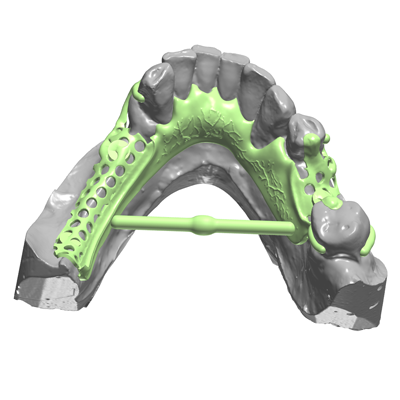
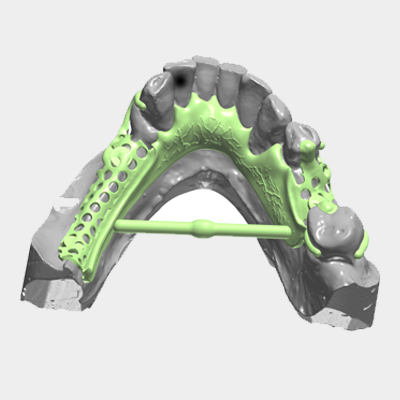
Service Images repalce

Changed region(s): [[0.03, 0.09, 0.99, 0.84]]

diff --git a/index.html b/index.html
@@ -78,7 +78,7 @@
                         SPECIALISATION  </a></li>
                                 </ul>
                             </li>
-                            <!-- <li><a href="#socialmedia">SOCIAL MEDIA</a></li> -->
+                            <li><a href="#portfolio">PORTFOLIO</a></li>
                             <li><a href="#visionmission">VISION </a></li>
 
                             <li class="drop-down">CONTACT
@@ -229,7 +229,7 @@
                                     <div class="col-lg-3 col-md-6">
                                         <div class="member text-center" data-aos="fade-up" data-aos-delay="400">
                                             <a href="#">
-                                                <img src="assets/img/8.Flexible Denture.png" class="img-fluid" alt="">
+                                                <img src="assets/img/flexibledenture.png" class="img-fluid" alt="">
                                             </a>
                                             <h6>Flexible Denture</h6>
 
@@ -238,7 +238,7 @@
                                     <div class="col-lg-3 col-md-6">
                                         <div class="member text-center" data-aos="fade-up" data-aos-delay="100">
                                             <a href="#">
-                                                <img src="assets/img/9.Digital denture.png" class="img-fluid" alt="">
+                                                <img src="assets/img/digitaldentureservice.png" class="img-fluid" alt="">
                                             </a>
                                             <h6>Digital Denture</h6>
                                         </div>
@@ -343,17 +343,17 @@
                 </header>
 
 
-                <h5>SPECIALISATION</h5>
+                <h5><strong>SPECIALISATION</strong></h5>
                 <p>One of the most important part that must be considered before any treatment begin is the clinician must take the time to discuss and discover the patient’s chief complaint and concerns and whether he or she can achieve or succeed the patient’s
                     desired final result.</p>
                 <p>Cherishing this, we have some of our strong point.</p>
-                <h5>SMILE DESIGNING</h5>
+                <h5><strong>SMILE DESIGNING</strong></h5>
                 <p>A smile expresses pleasure, sociability, happiness, joy, amusement, in a nutshell all the expressions which makes us alive. This concludes that it is a important attribute to any individual. Keeping this in mind, we consider and evaluate
                     in creating a smile that is esthetically pleasing to the doctor and the patient.</p>
-                <h5>BIO HPP WITH COMPOSITE</h5>
+                <h5><strong>BIO HPP WITH COMPOSITE</strong></h5>
                 <p>A new high performance polymer, BioHPP, based on polyether-ether-ketone (PEEK) polymer was introduced as dental material for manufacturing the superstructure dentures on dental implants. It is the brand new material in the implantology
                     sector. A division of our designers in VR2020 is dedicated to this segment as this is a potential future of digital dentistry.</p>
-                <h5>COSMETIC DENTISTRY</h5>
+                <h5><strong>COSMETIC DENTISTRY</strong></h5>
                 <p>A couple of our designers are dedicated to this specialization of ours. It is a latest trend in dentistry. Dental veneers are wafer-thin, custom-made shells of tooth-colored porcelain or resin that cover the front surface of the teeth.
                 </p>
 
@@ -362,19 +362,7 @@
         </section>
         <!-- End Services Section -->
 
-        <!-- ======= Call To Action Section ======= -->
-        <!-- <section id="who-we-are">
-      <div class="container text-center" data-aos="zoom-in">
-
-        </p>
-        <h3>WHO WE ARE</h3>
-        <p>VR 2020 founded in 2015 by Mr. Ravi Kumar, B.Tech, entrepreneur and philanthropist and Co-Founded by Mr.
-          Nikhil Mehta CDT, GDC, entrepreneur. As the longtime superior in digital restorative technology VR2020 is
-          making it easier than before for dentists to envision these and other benefits of an all-digital Dentistry
-          workflow.
-      </div>
-    </section> -->
-        <!-- End Call To Action Section -->
+     
 
 
 
@@ -383,7 +371,19 @@
 
         </section>
 
+   <!-- ======= Call To Action Section ======= -->
+   <section id="who-we-are">
+    <div class="container text-center" data-aos="zoom-in">
 
+     
+      <h3>WHO WE ARE</h3>
+      <h2>VR2020 DDs are open 24x6. We are love to hear from you.</h2>
+
+
+   
+    </div>
+  </section>
+      <!-- End Call To Action Section -->
 
 
         <!-- ======= VISION, GOAL AND MISSION ======= -->
@@ -516,7 +516,7 @@
                     <div class="col-lg-3 col-md-3 footer-contact">
                         <h4>CONTACT</h4>
                         <p>
-                            Phone No : +91 9560232020<br>
+                            Phone No : +91 9560232020
                         </p>
                         <p>
                             Email : info@vr2020dentlab.com<br>
@@ -538,12 +538,12 @@
                             <!-- <span class="mr-2"> Social Media </span> -->
                             <a href="https://www.facebook.com/vr2020dds/" class="facebook" target="_blank"><i
           class="fa fa-facebook"></i></a>
-                            <!-- <a href="https://twitter.com/vr2020dds" class="facebook" target="_blank"><i
+                            <a href="https://twitter.com/vr2020dds" class="facebook" target="_blank"><i
             class="fa fa-twitter"></i></a>
-            <a href="https://www.instagram.com/vr2020dental" class="facebook" target="_blank"><i
-              class="fa fa-instagram"></i></a>
+            <!-- <a href="https://www.instagram.com/vr2020dental" class="facebook" target="_blank"><i
+              class="fa fa-instagram"></i></a> -->
               <a href="https://www.linkedin.com/in/vr-dental-designing-solution-3252471b1/" class="facebook" target="_blank"><i
-                class="fa fa-linkedin"></i></a> -->
+                class="fa fa-linkedin"></i></a>
 
                         </div>
 

diff --git a/assets/css/style.css b/assets/css/style.css
@@ -623,7 +623,11 @@ section {
 .section-header p {
     text-align: center;
     /* padding-bottom: 30px; */
-    color: #333;
+    color: #000000;
+}
+#specialisation p, h5 {
+    color: #000000;
+
 }
 
 
@@ -878,8 +882,13 @@ section {
 
 #who-we-are h3 {
     color: #fff;
-    font-size: 28px;
+    font-size: 34px;
     font-weight: 700;
+}
+#who-we-are h2 {
+    color: #fff;
+    font-size: 26px;
+    font-weight: 500;
 }
 
 #who-we-are p {
@@ -1564,9 +1573,22 @@ section {
     cursor: pointer;
 }
 
+#contact [type="button"]:hover {
+    background: #6d2856;
+}
+#contact [type="button"] {
+    background: #8a3a6f;
+    border: 0;
+    padding: 10px 30px;
+    color: #fff;
+    transition: 0.4s;
+    cursor: pointer;
+}
+
 #contact .php-email-form button[type="submit"]:hover {
     background: #6d2856;
 }
+
 
 @-webkit-keyframes animate-loading {
     0% {
